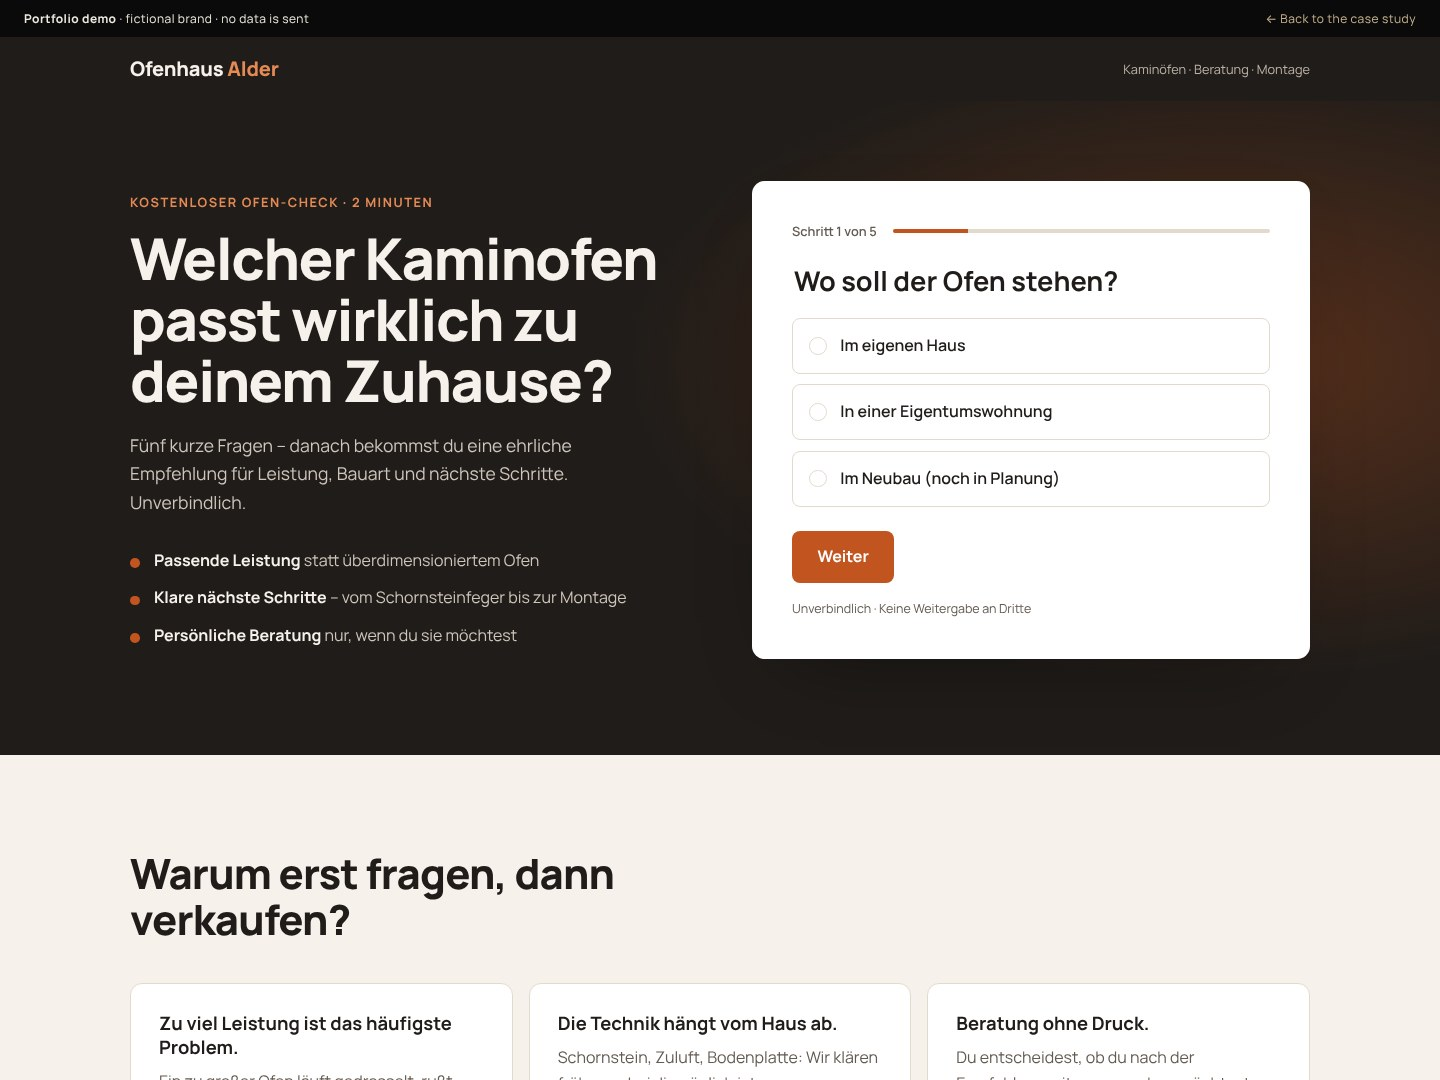
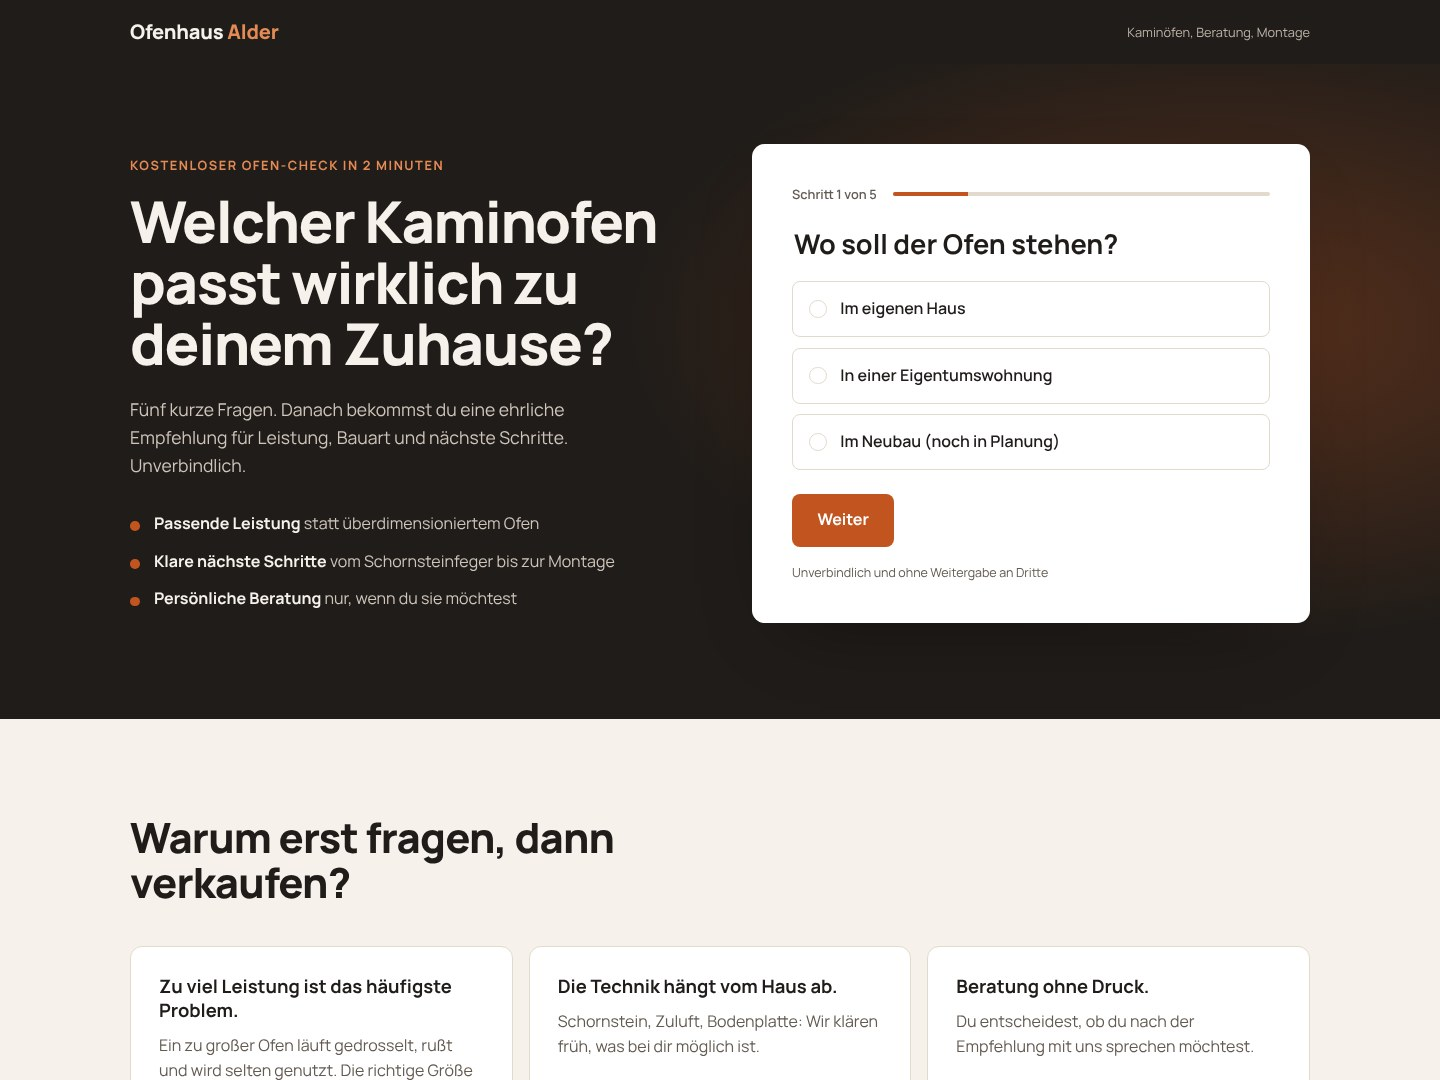
Social links, AI labels on generated illustrations, Hostinger-ready entry file
- LinkedIn and Instagram profiles
- 'KI-illustriert' on all AI-made demo illustrations; refreshed recruiting
  and lead-generation covers (the latter still showed old English text)
- server.cjs entry file (works when the host loads it with require),
  postinstall installs frontend and backend, Hostinger steps in README

Claude-Session: https://claude.ai/code/session_01DnVmdGPWbYy2hQXy2ZMYsX

diff --git a/frontend/demos/recruiting-demo/index.html b/frontend/demos/recruiting-demo/index.html
@@ -66,7 +66,7 @@
 
             <div class="demo-container ed-stage">
                 <figure class="ed-stage__image">
-                    <img src="/demos/recruiting-demo/werkstatt.svg" alt="Illustration einer hellen Tischlerwerkstatt mit Hobelbank und Werkzeugwand" width="1200" height="675">
+                    <img src="/demos/recruiting-demo/werkstatt.svg" alt="Illustration einer hellen Tischlerwerkstatt mit Hobelbank und Werkzeugwand" width="1200" height="675"><figcaption class="ed-ai-note">KI-illustriert</figcaption>
                 </figure>
                 <div class="ed-card">
                     <div class="ed-card__top">
@@ -102,19 +102,19 @@
                 </div>
                 <ul class="ed-services" role="list">
                     <li class="ed-service">
-                        <figure class="ed-service__image"><img src="/demos/recruiting-demo/aufgabe-moebelbau.svg" alt="Illustration eines Massivholzschranks" width="600" height="400"></figure>
+                        <figure class="ed-service__image"><img src="/demos/recruiting-demo/aufgabe-moebelbau.svg" alt="Illustration eines Massivholzschranks" width="600" height="400"><figcaption class="ed-ai-note">KI-illustriert</figcaption></figure>
                         <p class="ed-service__number">01</p>
                         <h3>Möbelbau</h3>
                         <p>Du fertigst Schränke, Tische und Küchen aus Massivholz, nach Maß und in hoher Qualität.</p>
                     </li>
                     <li class="ed-service">
-                        <figure class="ed-service__image"><img src="/demos/recruiting-demo/aufgabe-montage.svg" alt="Illustration einer Küchenmontage beim Kunden" width="600" height="400"></figure>
+                        <figure class="ed-service__image"><img src="/demos/recruiting-demo/aufgabe-montage.svg" alt="Illustration einer Küchenmontage beim Kunden" width="600" height="400"><figcaption class="ed-ai-note">KI-illustriert</figcaption></figure>
                         <p class="ed-service__number">02</p>
                         <h3>Montage beim Kunden</h3>
                         <p>Du baust die fertigen Möbel vor Ort auf und sorgst dafür, dass am Ende alles perfekt passt.</p>
                     </li>
                     <li class="ed-service">
-                        <figure class="ed-service__image"><img src="/demos/recruiting-demo/aufgabe-maschinen.svg" alt="Illustration einer CNC-Fräse und einer Formatkreissäge" width="600" height="400"></figure>
+                        <figure class="ed-service__image"><img src="/demos/recruiting-demo/aufgabe-maschinen.svg" alt="Illustration einer CNC-Fräse und einer Formatkreissäge" width="600" height="400"><figcaption class="ed-ai-note">KI-illustriert</figcaption></figure>
                         <p class="ed-service__number">03</p>
                         <h3>Arbeit an modernen Maschinen</h3>
                         <p>CNC, Formatkreissäge und Kantenanleimer: Du arbeitest mit Technik, die dir die schwere Arbeit abnimmt.</p>

diff --git a/frontend/demos/garten-demo/index.html b/frontend/demos/garten-demo/index.html
@@ -103,19 +103,19 @@
                 </div>
                 <ul class="ed-services" role="list">
                     <li class="ed-service">
-                        <figure class="ed-service__image"><img src="/demos/garten-demo/terrassenbau.svg" alt="Illustration einer Holzterrasse mit Bank und Pflanzkübel" width="600" height="400"></figure>
+                        <figure class="ed-service__image"><img src="/demos/garten-demo/terrassenbau.svg" alt="Illustration einer Holzterrasse mit Bank und Pflanzkübel" width="600" height="400"><figcaption class="ed-ai-note">KI-illustriert</figcaption></figure>
                         <p class="ed-service__number">01</p>
                         <h3>Terrassenbau</h3>
                         <p>Ob Holz, WPC oder Naturstein: Wir bauen Ihre Terrasse auf einem soliden Unterbau, damit Sie viele Jahre Freude daran haben.</p>
                     </li>
                     <li class="ed-service">
-                        <figure class="ed-service__image"><img src="/demos/garten-demo/gartenplanung.svg" alt="Illustration eines Gartenplans mit Wegen, Beeten und Bäumen" width="600" height="400"></figure>
+                        <figure class="ed-service__image"><img src="/demos/garten-demo/gartenplanung.svg" alt="Illustration eines Gartenplans mit Wegen, Beeten und Bäumen" width="600" height="400"><figcaption class="ed-ai-note">KI-illustriert</figcaption></figure>
                         <p class="ed-service__number">02</p>
                         <h3>Gartenplanung</h3>
                         <p>Gemeinsam mit Ihnen entwickeln wir einen Plan, der zu Ihrem Grundstück, Ihrem Alltag und Ihrem Budget passt.</p>
                     </li>
                     <li class="ed-service">
-                        <figure class="ed-service__image"><img src="/demos/garten-demo/baumfaellung.svg" alt="Illustration eines schief stehenden Baums neben einem Haus und eines Baumstumpfs" width="600" height="400"></figure>
+                        <figure class="ed-service__image"><img src="/demos/garten-demo/baumfaellung.svg" alt="Illustration eines schief stehenden Baums neben einem Haus und eines Baumstumpfs" width="600" height="400"><figcaption class="ed-ai-note">KI-illustriert</figcaption></figure>
                         <p class="ed-service__number">03</p>
                         <h3>Problembaumfällung</h3>
                         <p>Schief stehende, kranke oder zu nah am Haus wachsende Bäume fällen wir sicher, fachgerecht und ohne Schäden am Grundstück.</p>

diff --git a/frontend/demos/shared/demo-editorial.css b/frontend/demos/shared/demo-editorial.css
@@ -102,7 +102,7 @@
 /* SERVICES */
 .ed-services { display: grid; gap: 2rem; padding: 0; list-style: none; }
 @media (min-width: 820px) { .ed-services { grid-template-columns: repeat(3, 1fr); } }
-.ed-service__image { margin: 0 0 1.25rem; overflow: hidden; border-radius: 22px; aspect-ratio: 3 / 2; background: var(--ed-soft); }
+.ed-service__image { position: relative; margin: 0 0 1.25rem; overflow: hidden; border-radius: 22px; aspect-ratio: 3 / 2; background: var(--ed-soft); }
 .ed-service__image img { width: 100%; height: 100%; object-fit: cover; transition: transform 600ms cubic-bezier(0.22, 1, 0.36, 1); }
 .ed-service:hover .ed-service__image img { transform: scale(1.04); }
 .ed-service__number { font-size: 0.8rem; font-weight: 700; color: var(--ed-accent); }
@@ -168,3 +168,19 @@
 .ed-social a { display: inline-flex; padding: 0.45rem 0.9rem; border-radius: 999px; box-shadow: inset 0 0 0 1px rgba(255, 255, 255, 0.35); font-size: 0.85rem; text-decoration: none; }
 .ed-social a:hover { background: rgba(255, 255, 255, 0.1); }
 .ed-thanks .demo-done__badge { margin-top: 2rem; background: var(--ed-soft); }
+
+
+/* AI LABEL  (small note on illustrations made with AI) */
+.ed-stage__image { position: relative; }
+.ed-ai-note {
+    position: absolute;
+    top: 0.75rem;
+    left: 0.75rem;
+    padding: 0.25rem 0.6rem;
+    border-radius: 999px;
+    background: rgba(255, 255, 255, 0.85);
+    color: var(--demo-muted);
+    font-size: 0.7rem;
+    letter-spacing: 0.02em;
+    pointer-events: none;
+}

diff --git a/backend/src/server.js b/backend/src/server.js
@@ -84,8 +84,12 @@ export function createApp(config, { deliver } = {}) {
     return handler;
 }
 
-// Start the server only when this file is run directly (not in tests).
-if (import.meta.url === pathToFileURL(process.argv[1]).href) {
+/**
+ * Starts the HTTP server with the configuration from the environment.
+ * Called below when this file is run directly, or by /server.cjs
+ * (the entry file for hosts like Hostinger).
+ */
+export function startServer() {
     const { config, problems } = loadConfig();
 
     if (problems.length) {
@@ -108,4 +112,10 @@ if (import.meta.url === pathToFileURL(process.argv[1]).href) {
     const shutdown = () => server.close(() => process.exit(0));
     process.on("SIGTERM", shutdown);
     process.on("SIGINT", shutdown);
+    return server;
+}
+
+// Start the server only when this file is run directly (not in tests).
+if (process.argv[1] && import.meta.url === pathToFileURL(process.argv[1]).href) {
+    startServer();
 }

diff --git a/frontend/config/site.js b/frontend/config/site.js
@@ -73,9 +73,8 @@ export const siteConfig = {
 
     // EDIT: SOCIAL LINKS  (empty url = not shown)
     social: [
-        // EXAMPLE VALUES, replace with your real profile links.
-        { label: "LinkedIn", url: "https://www.linkedin.com/in/example" },
-        { label: "Instagram", url: "https://www.instagram.com/example" }
+        { label: "LinkedIn", url: "https://www.linkedin.com/in/lukas-ude-3b11b7435/" },
+        { label: "Instagram", url: "https://www.instagram.com/lukas_ude/" }
     ],
 
 

diff --git a/README.md b/README.md
@@ -138,6 +138,15 @@ still set to `localhost`. Fix them before going live.
 
 Frontend and backend can be deployed **together** or **separately**.
 
+**Hostinger (Business plan, Node.js web app):**
+- hPanel → Websites → Add website → Node.js web app → import this GitHub repository.
+- Root directory: repository root. Build script: `build`. Entry file: `server.cjs`.
+- Node version: 22 or 24. `npm install` also installs `/frontend` and `/backend` (postinstall).
+- Environment variables (hPanel): `NODE_ENV=production`, `FORM_TOKEN_SECRET`,
+  `ALLOWED_ORIGINS=https://lukasude.de,https://www.lukasude.de`, `TRUST_PROXY=true`,
+  `CONTACT_DELIVERY=smtp`, `SMTP_HOST=smtp.hostinger.com`, `SMTP_PORT=465`,
+  `SMTP_USER=kontakt@lukasude.de`, `SMTP_PASSWORD`, `CONTACT_TO_EMAIL=kontakt@lukasude.de`.
+
 **Option A – one Node server (simplest):** e.g. Render, Railway, Fly.io, a VPS.
 - Build command: `npm run setup && npm run build`
 - Start command: `npm start`
